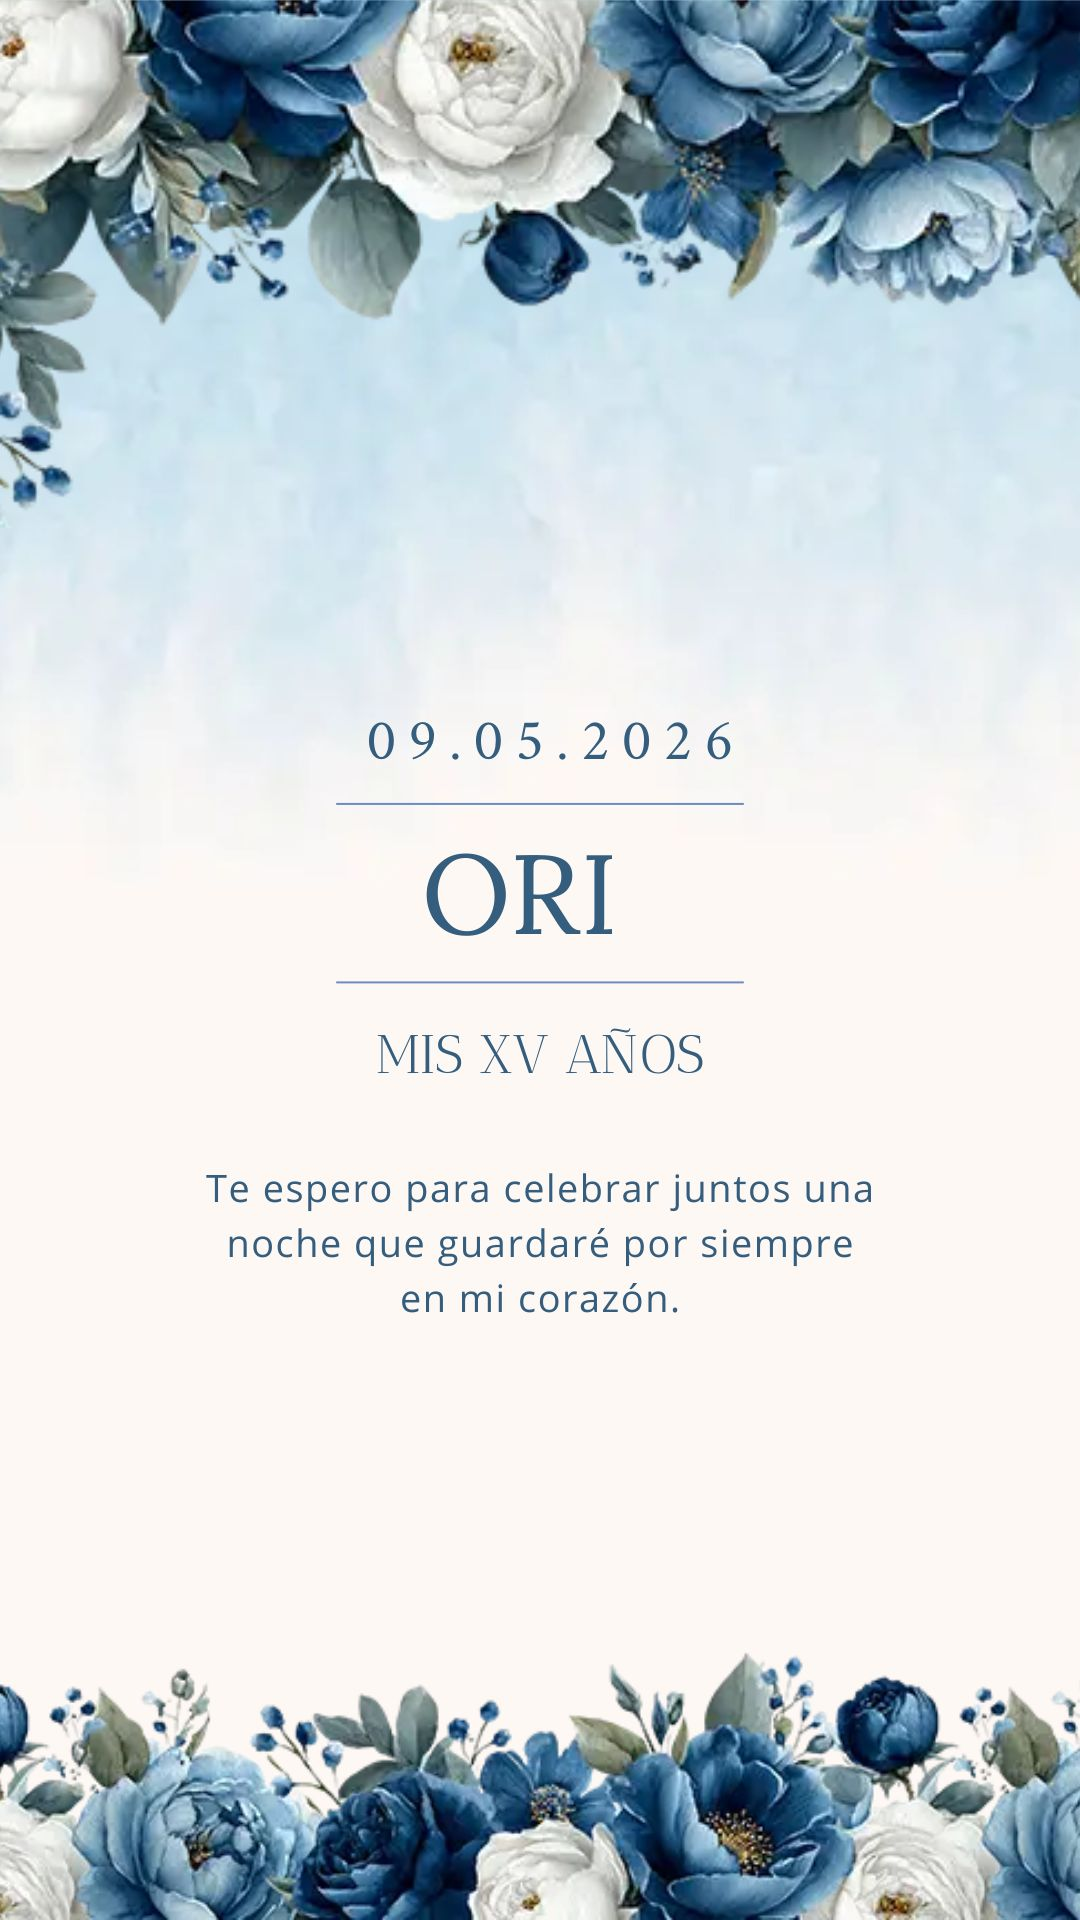
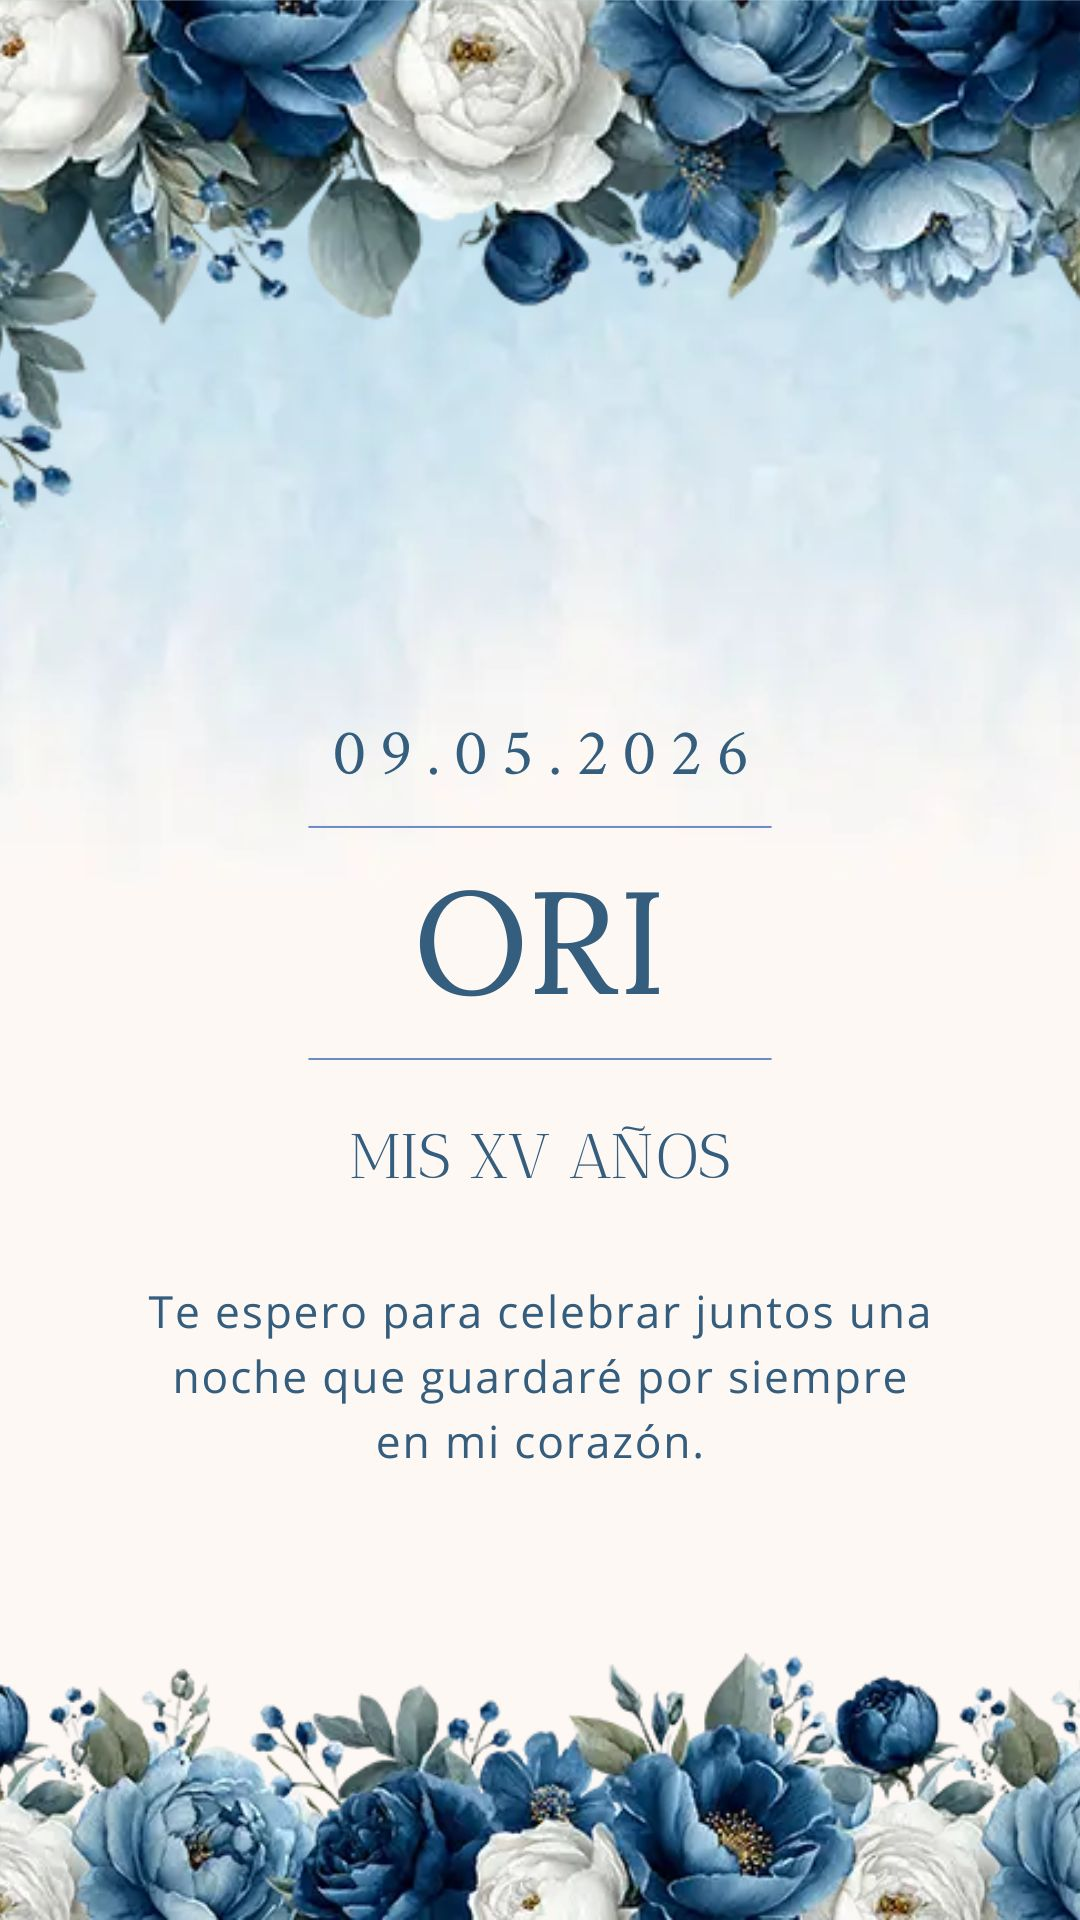
nueve

diff --git a/style.css b/style.css
@@ -379,7 +379,7 @@ body {
 
 /* SECCION GENERAL */
 .musicaa {
-  
+  margin-top: -5%;
   text-align: center;
   padding: 80px 20px;
 }
@@ -404,7 +404,7 @@ body {
 
 /* DESCRIPCION */
 .desc-musicaa {
-  font-size: 18px;
+  font-size: 20px;
   color: #5f6f7a;
   margin-bottom: 50px;
 }

diff --git a/index.html b/index.html
@@ -194,7 +194,7 @@
   </div>
 
 </section>
-<div class="linea"></div>
+
 
 
 
